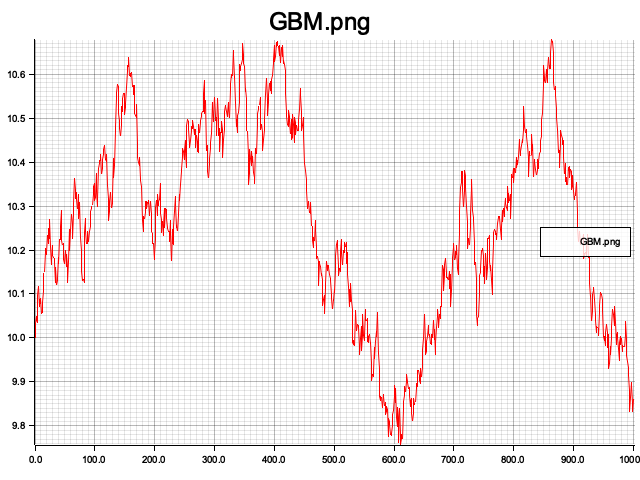
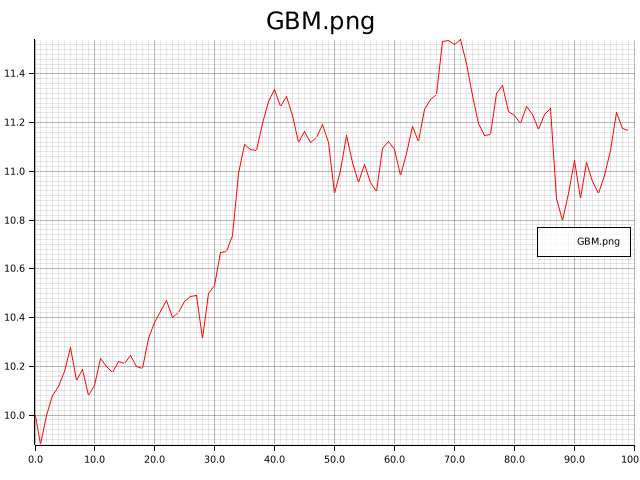
re-do GBM

Changed region(s): [[0.0, 0.0, 1.0, 0.9688], [0.0312, 0.9375, 0.0625, 0.9688]]

diff --git a/src/Math_Monte_Carlo.rs b/src/Math_Monte_Carlo.rs
@@ -46,25 +46,24 @@ impl Default for GeometricBrownianMotion {
 
 impl GeometricBrownianMotion {
     /// Generates a vector of length `N` of a Geometric Brownian Motion trajectory.
-    pub fn generate_serial(&self) -> Vec<Vec<f64>> {
+    pub fn generate(&self) -> Vec<Vec<f64>> {
         let S = self.initial_value;
         let T = self.time_horizon;
         let r = self.drift;
         let v = self.diffusion;
         let N = self.time_steps;
+        let dt: f64 = T / N as f64;
 
         let mut output: Vec<Vec<f64>> = Vec::with_capacity(self.trajectories);
 
         // for i in output.par_iter() {
 
         for _ in 0..self.trajectories {
-            // Length of each time step.
-            let dt: f64 = T / N as f64;
-
             // Vector for GBM trajectory.
-            let mut St: Vec<f64> = vec![0.0; N + 1];
+            let mut St: Vec<f64> = Vec::with_capacity(N + 1);
 
-            St[0] = S;
+            // St[0] = S;
+            St.push(S);
 
             // Vector of time points.
             let time = linspace(0.0, T, N + 1);
@@ -73,68 +72,20 @@ impl GeometricBrownianMotion {
             let Z: Vec<f64> = rnorm(N);
 
             // Brownian Motion increments.
-            let mut dW: Vec<f64> = vec![0.0; Z.len()];
+            let mut dW: Vec<f64> = Vec::with_capacity(Z.len());
 
             for i in 0..(Z.len()) {
-                dW[i] = Z[i] * dt.sqrt();
+                dW.push(Z[i] * dt.sqrt());
             }
 
             // Brownian Motion at each time (N+1 elements).
             let mut W: Vec<f64> = cumsum(&dW);
-            W.insert(0, 0.0);
 
-            for i in 1..(St.len()) {
-                St[i] = S * ((r - v * v / 2.0) * time[i] + v * W[i]).exp();
+            for i in 1..(St.capacity() - 1) {
+                St.push(S * ((r - v * v / 2.0) * time[i] + v * W[i]).exp());
             }
-
             output.push(St);
         }
-
-        return output;
-    }
-
-    /// Generates a vector of length `N` of a Geometric Brownian Motion trajectory.
-    pub fn generate_parallel(&self) -> Vec<Vec<f64>> {
-        let S = self.initial_value;
-        let T = self.time_horizon;
-        let r = self.drift;
-        let v = self.diffusion;
-        let N = self.time_steps;
-
-        // Length of each time step.
-        let dt: f64 = T / N as f64;
-
-        let mut output: Vec<Vec<f64>> = Vec::with_capacity(self.trajectories);
-
-        (0..self.trajectories).into_par_iter().for_each(|i| {
-            // Vector for GBM trajectory.
-            let mut St: Vec<f64> = vec![0.0; N + 1];
-
-            St[0] = S;
-
-            // Vector of time points.
-            let time = linspace(0.0, T, N + 1);
-
-            // Standard normal sample of N elements.
-            let Z: Vec<f64> = rnorm(N);
-
-            // Brownian Motion increments.
-            let mut dW: Vec<f64> = vec![0.0; Z.len()];
-
-            for i in 0..(Z.len()) {
-                dW[i] = Z[i] * dt.sqrt();
-            }
-
-            // Brownian Motion at each time (N+1 elements).
-            let mut W: Vec<f64> = cumsum(&dW);
-            W.insert(0, 0.0);
-
-            for i in 1..(St.len()) {
-                St[i] = S * ((r - v * v / 2.0) * time[i] + v * W[i]).exp();
-            }
-
-            output[i] = St;
-        });
 
         return output;
     }
@@ -156,15 +107,17 @@ mod tests {
             time_horizon: 1.0,
             drift: 0.05,
             diffusion: 0.1,
-            time_steps: 1000,
-            trajectories: 3,
+            time_steps: 100,
+            trajectories: 2,
         };
 
-        let v1: Vec<Vec<f64>> = GBM.generate_serial();
-        let v2: Vec<Vec<f64>> = GBM.generate_parallel();
+        let trajectories: Vec<Vec<f64>> = GBM.generate();
 
-        let file = "GBM.png";
-        plot_vector(v1[0].clone(), file)
+        let file1 = "GBM1.png";
+        plot_vector(trajectories[0].clone(), file1);
+
+        let file2 = "GBM2.png";
+        plot_vector(trajectories[1].clone(), file2)
 
         // if let Err(err) = write_vector(v) {
         //     eprintln!("{}", err);
